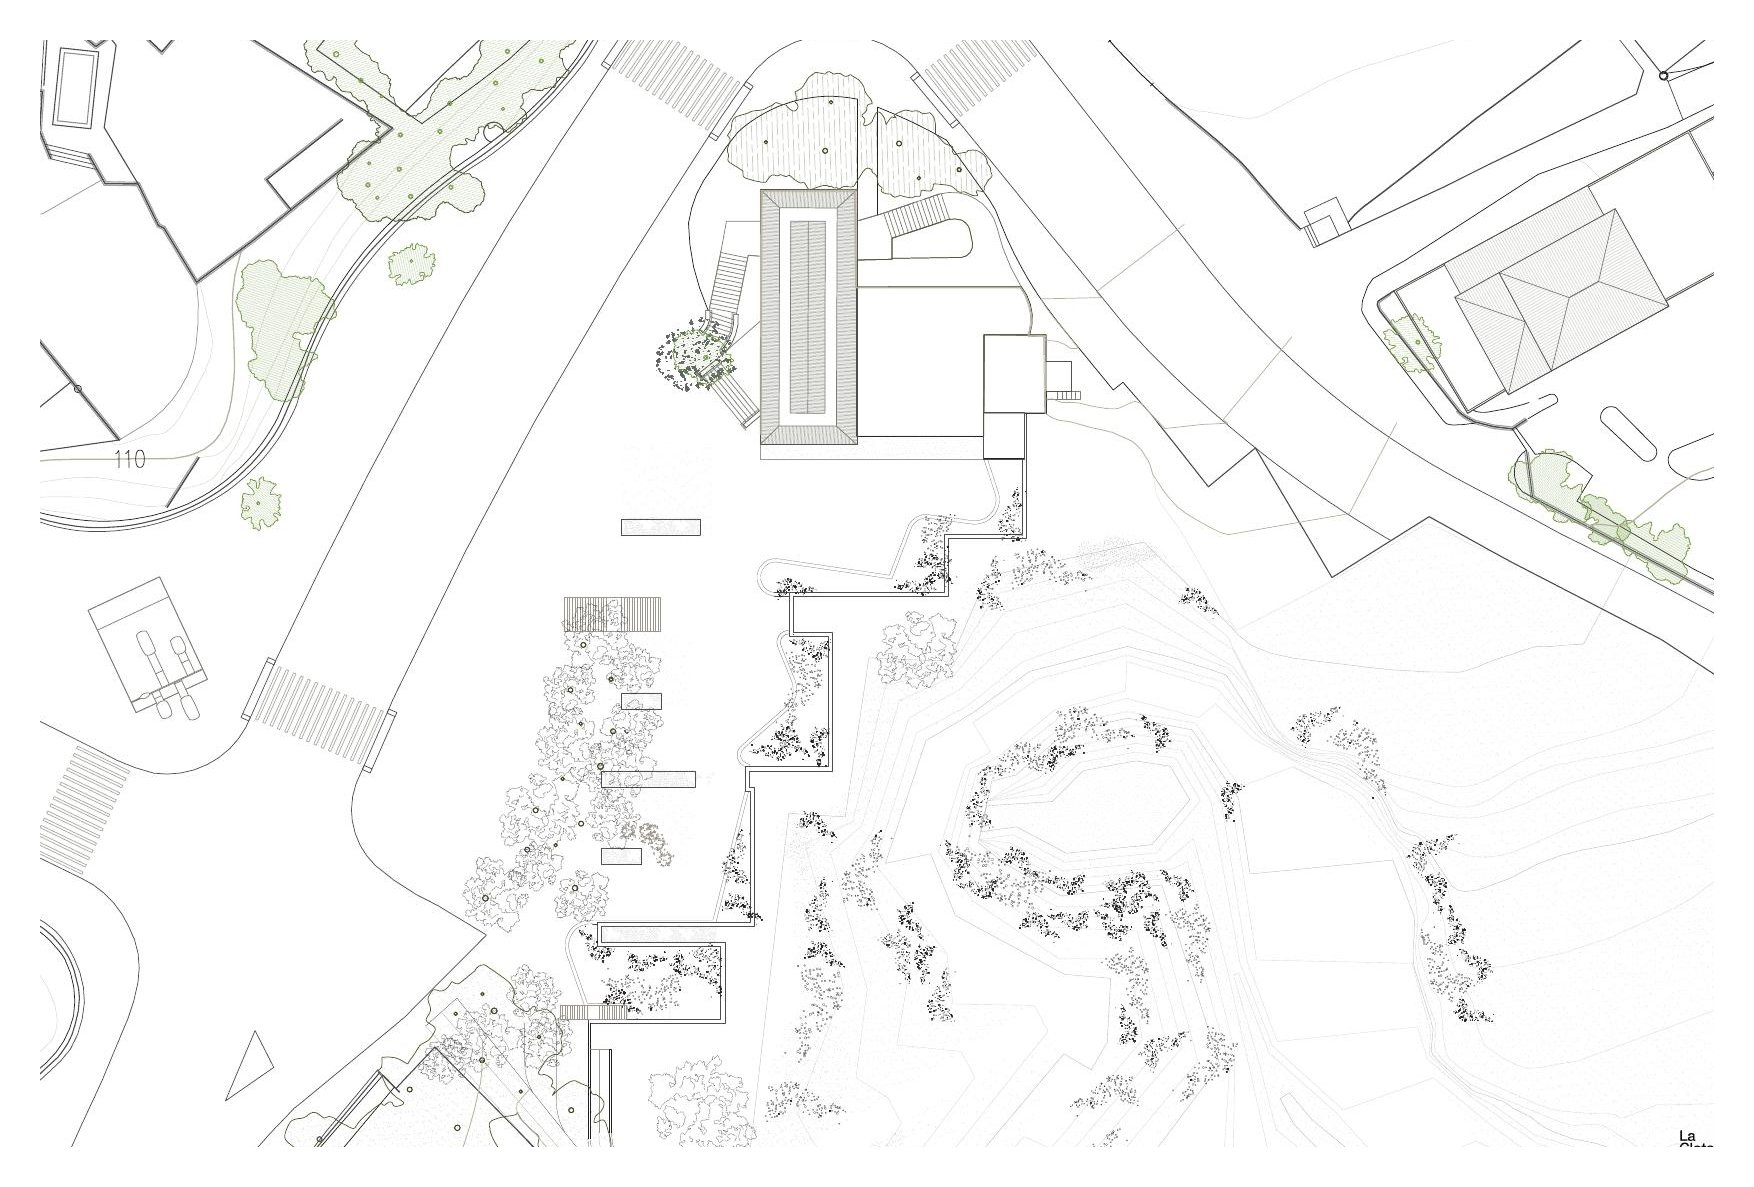
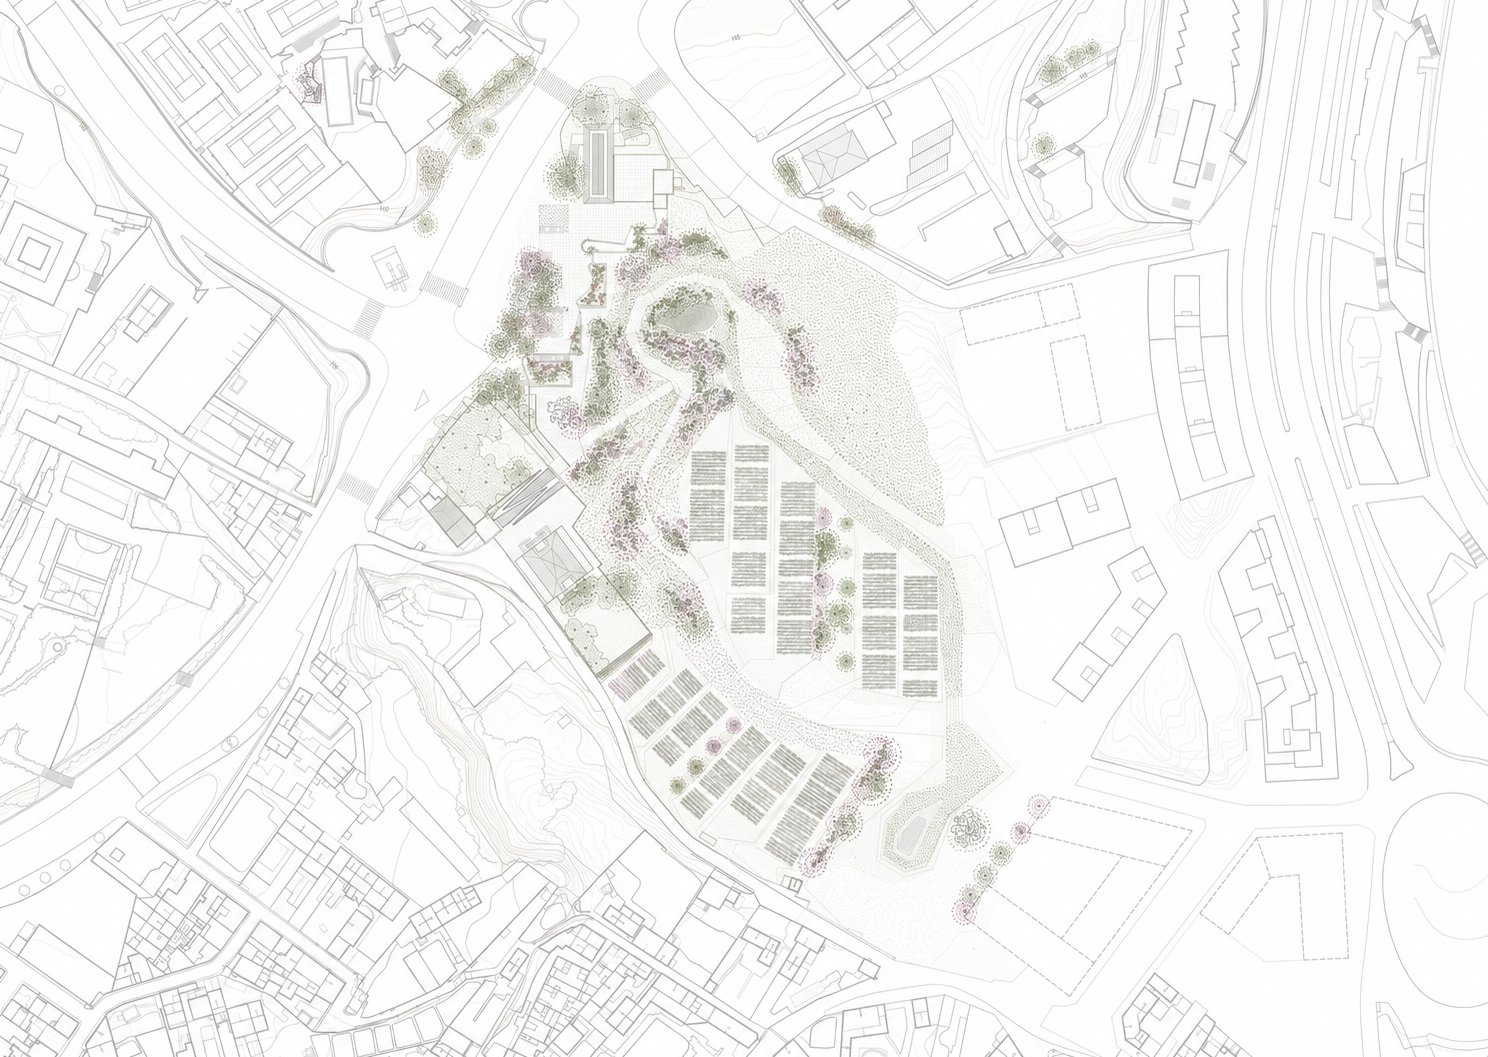
La Clota: only the images from Pablo's image folder; 4:3 frames so drawings fill them
Claude-Session: https://claude.ai/code/session_01BeHbgo38thPkc7JJzoGJ7w

diff --git a/src/content/projects/culinary-center/index.md b/src/content/projects/culinary-center/index.md
@@ -16,36 +16,30 @@ chapters:
   - title: Site
     text: The centre starts from the Pavilion of the Republic and its courtyard, and stitches them to the hillside below, where the old allotments return as a public park.
     images:
-      - src: ./03-site-plan.jpg
-        caption: Site plan
+      - src: ./02-location.jpg
+        caption: La Clota in its neighbourhood
         drawing: true
-      - src: ./10-la-clota-today.jpg
-        caption: The centre above its new allotment park
-  - title: Plan
+      - src: ./03-site-plan.jpg
+        caption: Site plan with the allotment park
+        drawing: true
+      - src: ./04-la-clota-view.jpg
+        caption: The centre above its allotment park
+  - title: Plan & section
     text: Parallel earth walls run along the plinth and organise the whole centre. Small courtyards between them bring daylight and cross-ventilation into the buried rooms. The roof becomes a lookout square over the city.
     images:
-      - src: ./04-ground-floor-plan.jpg
-        caption: Ground floor plan
+      - src: ./05-floor-plan.jpg
+        caption: Floor plan
         drawing: true
-      - src: ./05-sections.jpg
-        caption: Long sections through the courtyards
+      - src: ./06-section.jpg
+        caption: Sections through the courtyards
         drawing: true
-      - src: ./02-roof-square.jpg
+      - src: ./07-roof-square.jpg
         caption: The roof as a lookout square
-  - title: Spaces
-    text: Timber roofs over earth walls give warm, quiet rooms built around the act of cooking.
+  - title: Spaces & construction
+    text: Walls of compacted earth from the site, under timber roofs. Their thermal mass and moisture regulation cut the building's energy demand almost in half, and make warm, quiet rooms built around cooking.
     images:
-      - src: ./06-gallery.jpg
+      - src: ./08-gallery.jpg
         caption: Gallery and dining
-      - src: ./07-kitchen.jpg
+      - src: ./09-kitchen.jpg
         caption: Teaching kitchen
-  - title: Construction & energy
-    text: Walls of compacted earth from the site itself. Their thermal mass and moisture regulation cut the building's energy demand almost in half.
-    images:
-      - src: ./08-structure.jpg
-        caption: "Structure: foundations, walls, roof"
-        drawing: true
-      - src: ./09-construction-section.jpg
-        caption: Construction section
-        drawing: true
 ---
